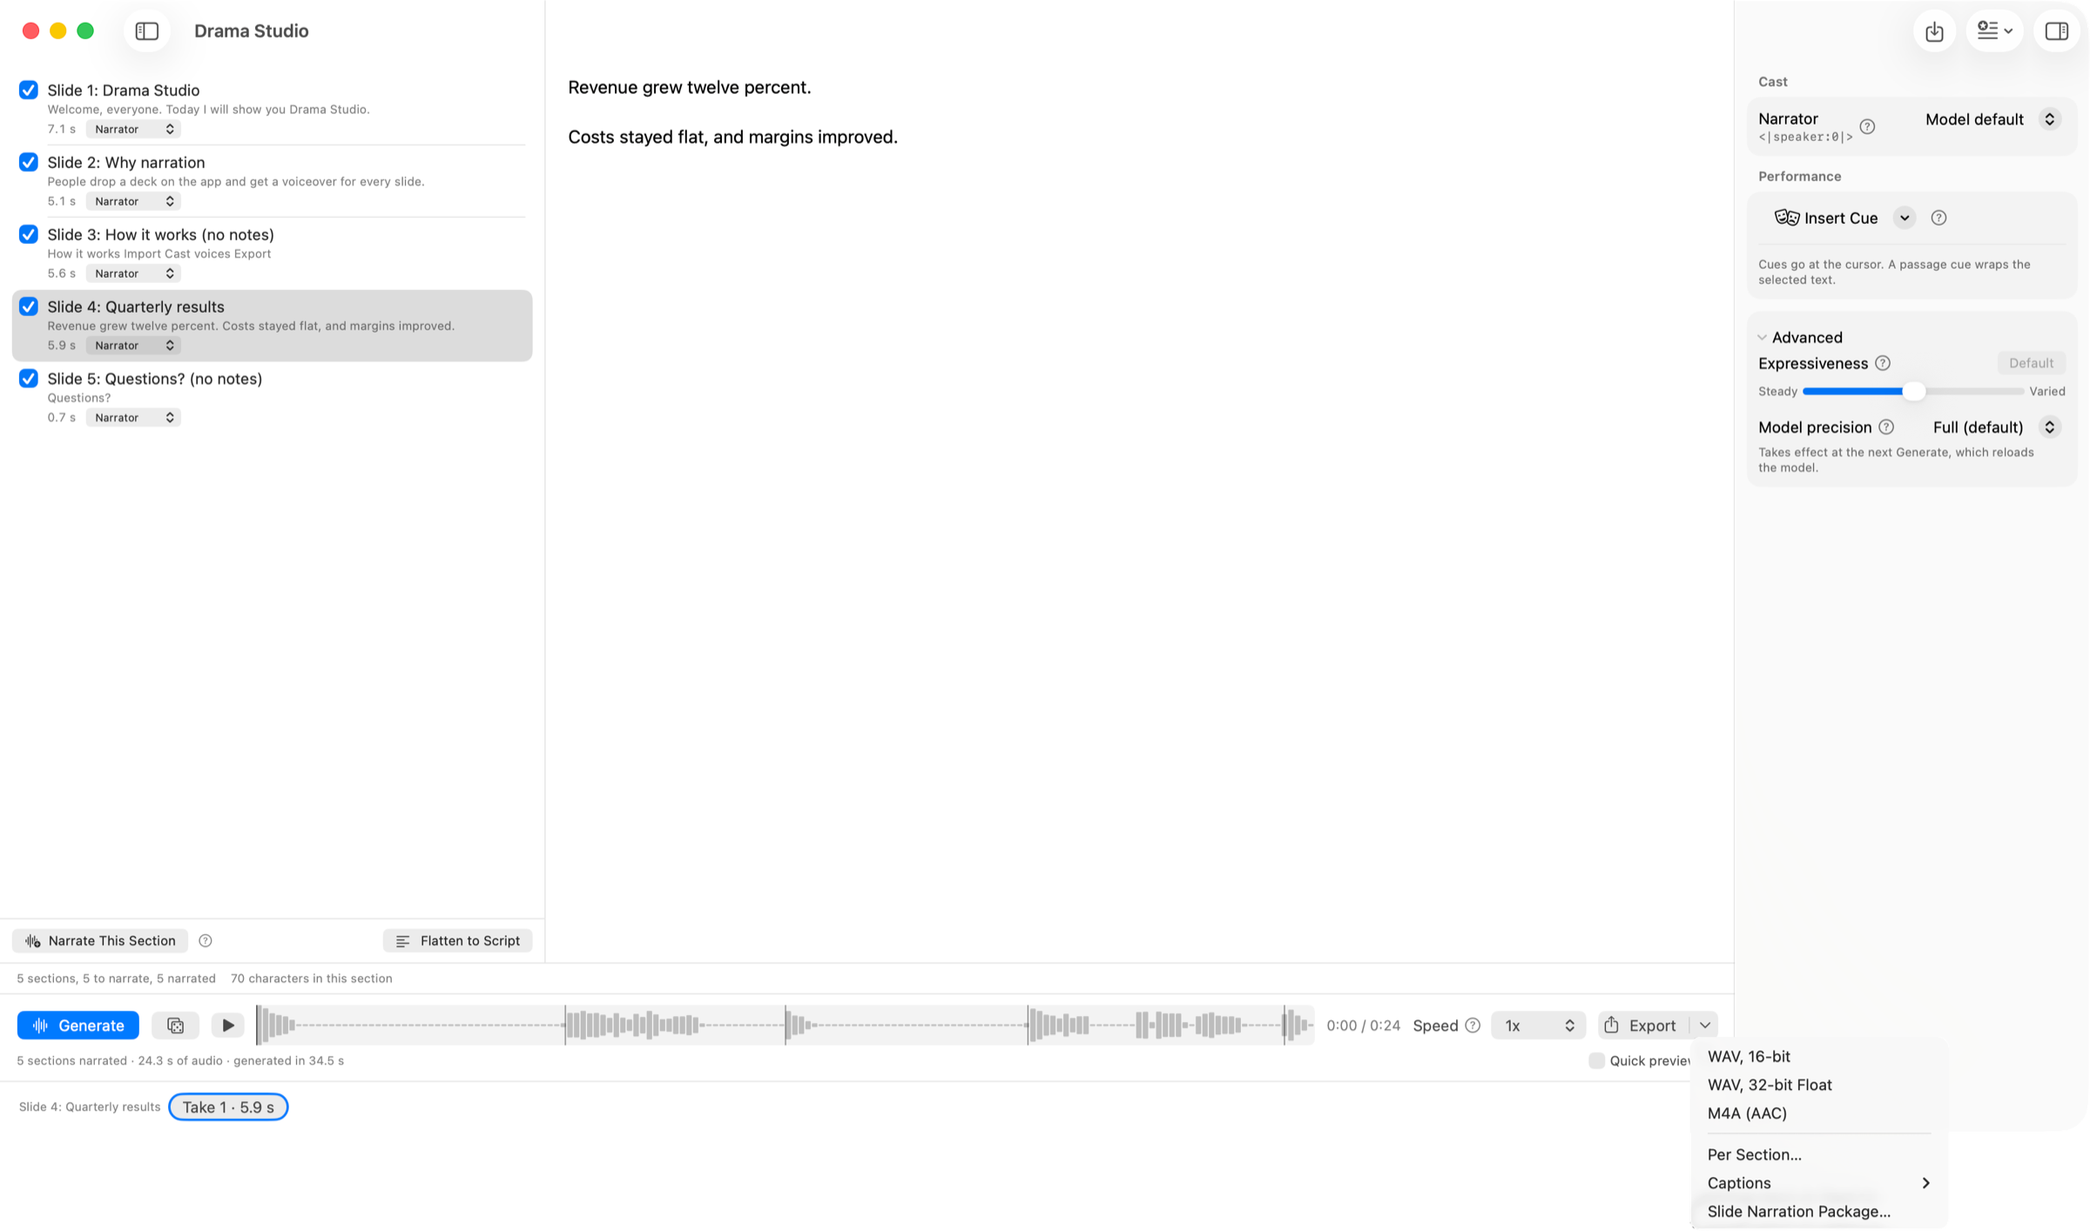
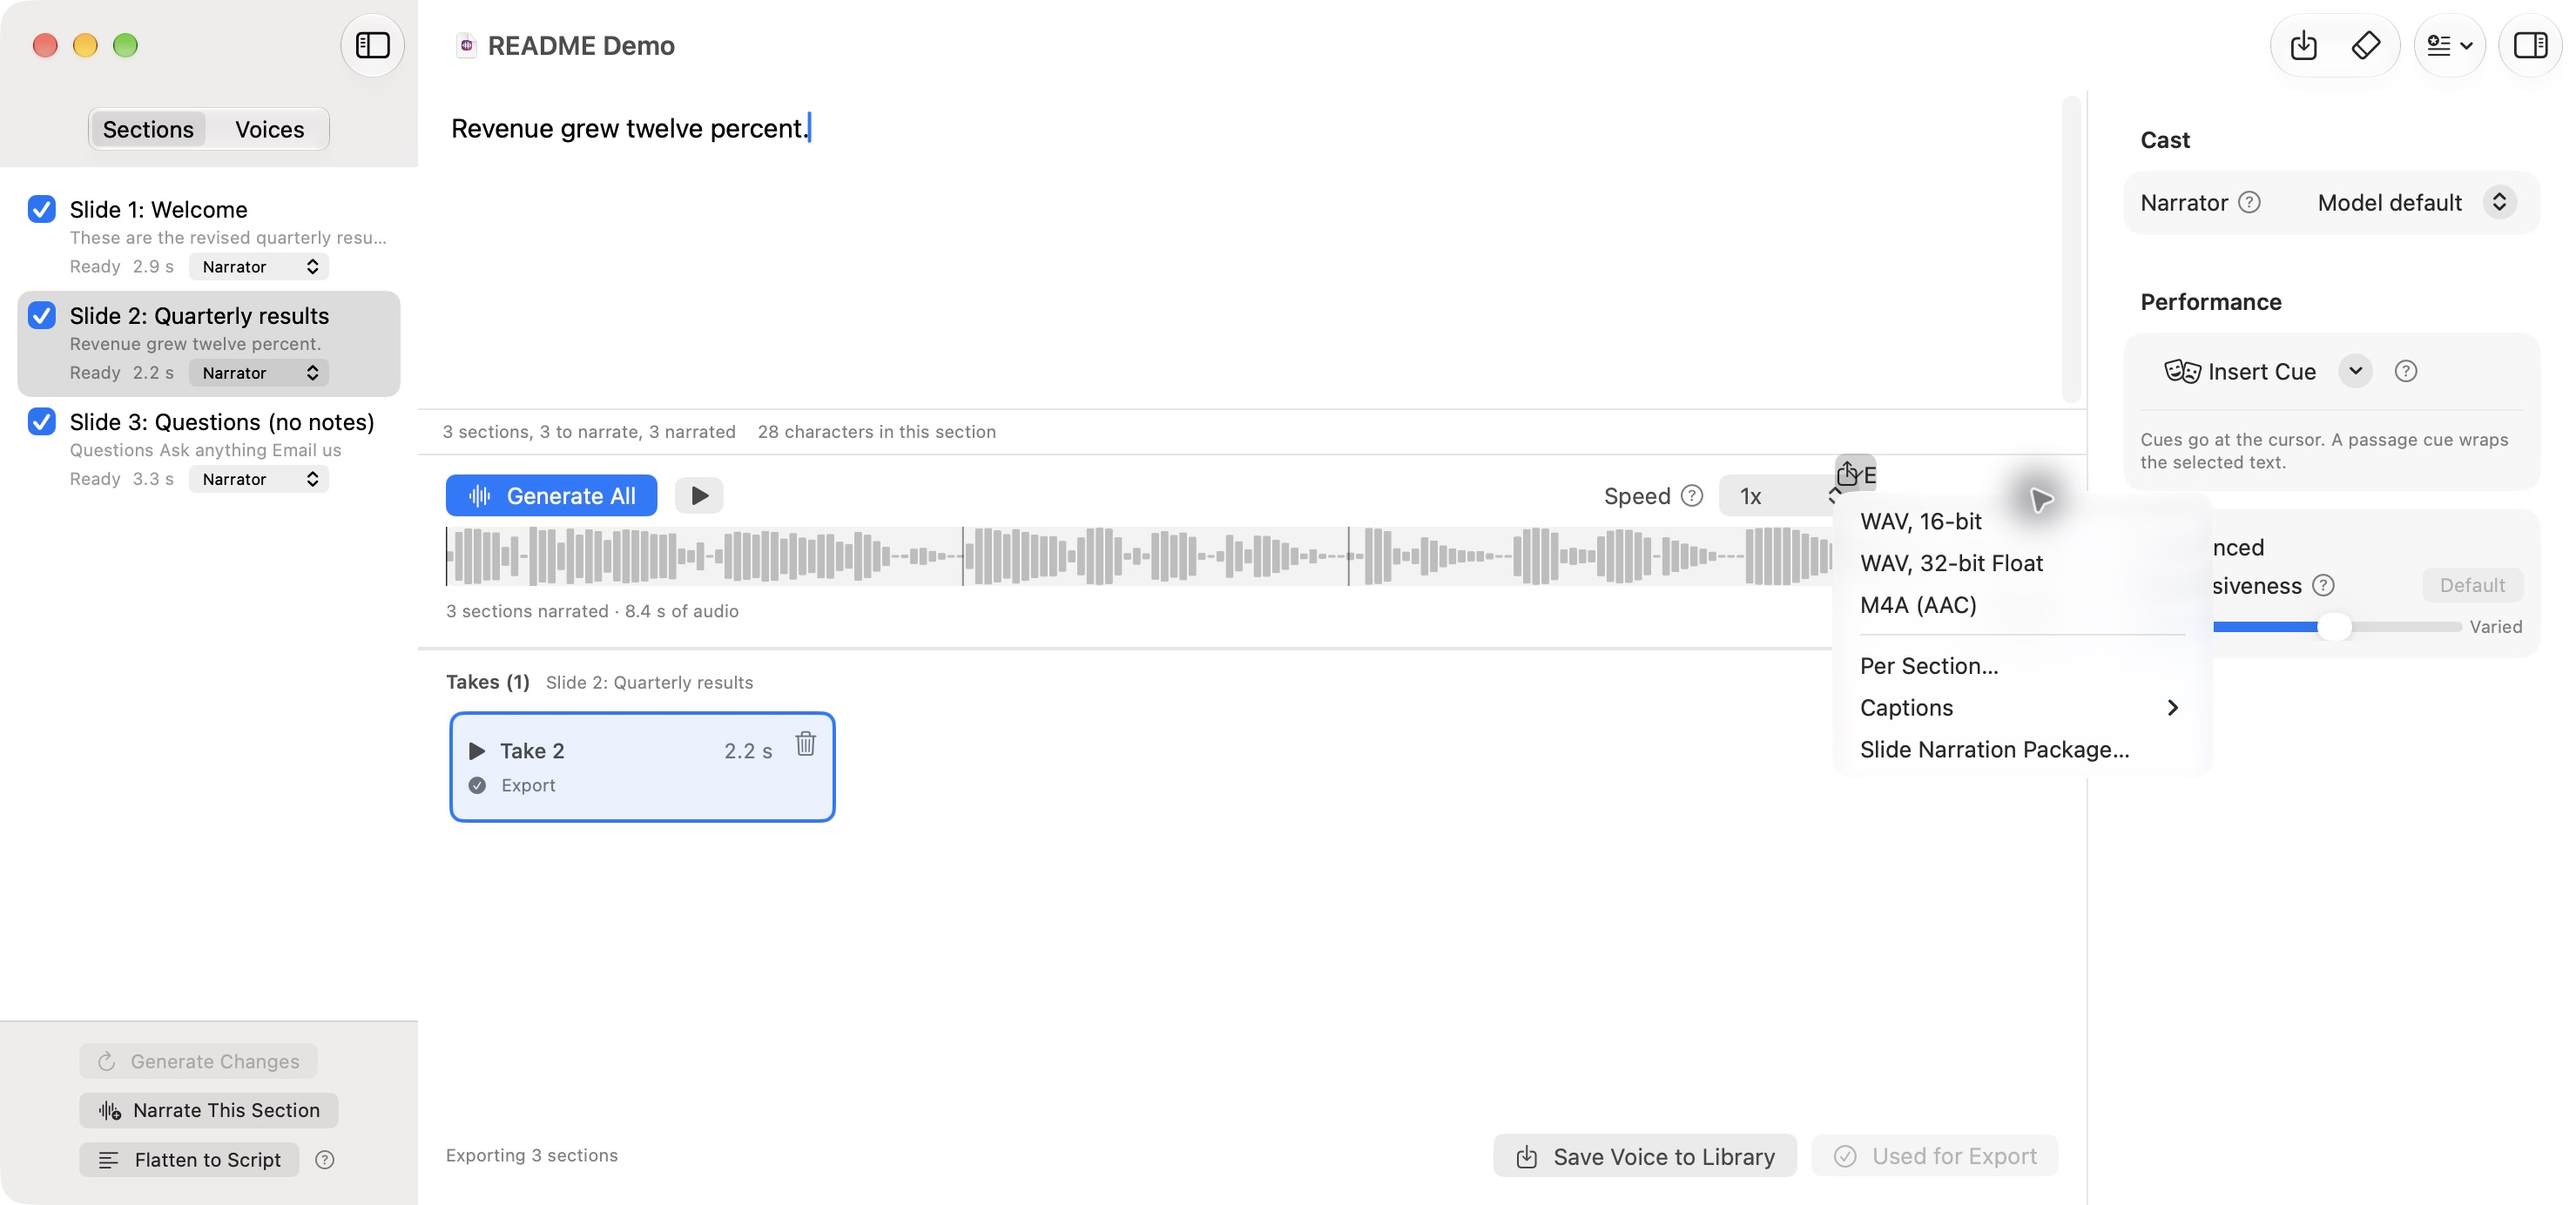
Update README screenshots for Drama Studio 2.0.0

diff --git a/README.md b/README.md
@@ -254,7 +254,7 @@ slide has no notes; a PDF's pages; an EPUB's chapters. The list shows each
 section's label, a preview, its duration once narrated, a skip box and a
 speaker picker. The editor edits the selected section.
 
-![A deck's sections, with the spoken sentence highlighted](docs/screenshots/document-sections.png)
+![Drama Studio 2.0.0 showing a deck's sections, take cards, and Save Voice to Library](docs/screenshots/document-sections.png)
 
 - Generate narrates every section that is not skipped, in order, one request
   per section, cast with that section's speaker's voice. The speaker's
@@ -290,7 +290,7 @@ speaker picker. The editor edits the selected section.
   their takes from the session. Its confirmation offers to save a project copy
   first.
 
-![The Export menu for a deck](docs/screenshots/document-export-menu.png)
+![Drama Studio 2.0.0 showing the Export menu for a deck](docs/screenshots/document-export-menu.png)
 
 On the five-slide sample deck (`python-pptx`, slide 3 without notes), the
 real engine at the default settings narrated 24.3 s of audio in 34.5 s
@@ -363,7 +363,7 @@ holds the port, a switch for starting the server with the app, and the token.
 The menu bar has Start and Stop. When the port is taken, the menu shows
 "API: Port 8780 is already in use."
 
-![The menu bar extra while an API request generates](docs/screenshots/menu-bar-extra-job.png)
+![The menu bar extra while a preview-engine API request generates](docs/screenshots/menu-bar-extra-job.png)
 
 Every route except `/v1/health` needs the bearer token from
 `~/Library/Application Support/DramaStudio/api-token`, created the first time
